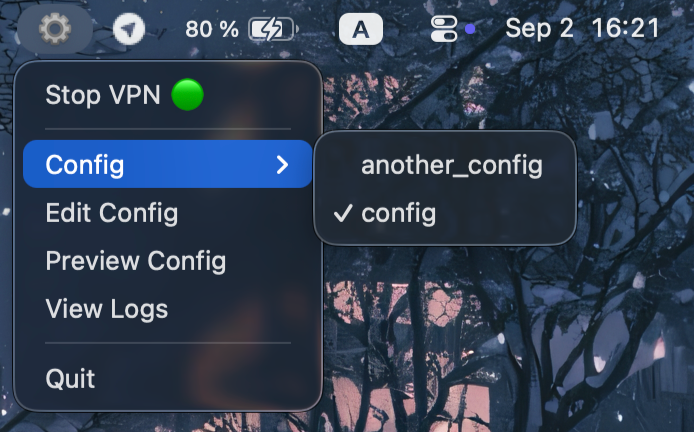
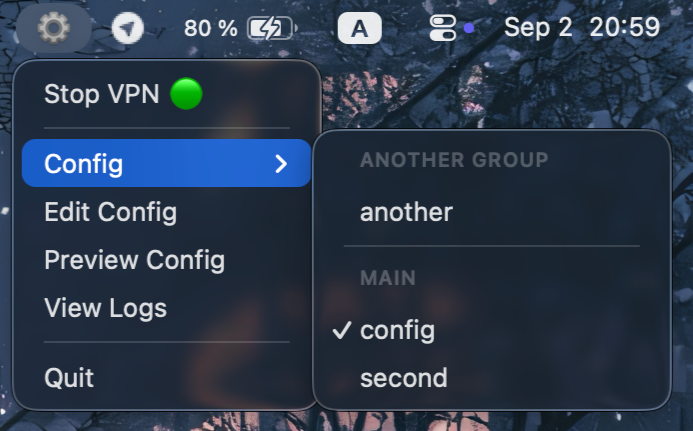
add macos config list distribution

diff --git a/macos/Sources/ConfigManager.swift b/macos/Sources/ConfigManager.swift
@@ -31,18 +31,82 @@ class ConfigManager {
         }
     }
 
-    func loadConfigs() -> [URL] {
+    struct ConfigGroup {
+        let folderName: String?
+        let displayName: String?
+        let configs: [URL]
+    }
 
-        guard let files = try? FileManager.default.contentsOfDirectory(
+    private func sortedByName(_ urls: [URL]) -> [URL] {
+        urls.sorted { $0.lastPathComponent.localizedStandardCompare($1.lastPathComponent) == .orderedAscending }
+    }
+
+    private func parseFolderName(_ name: String) -> (displayName: String, order: Int?) {
+        if let dotRange = name.range(of: ".", options: .backwards) {
+            let suffix = name[dotRange.upperBound...]
+            if !suffix.isEmpty, let number = Int(suffix) {
+                return (String(name[..<dotRange.lowerBound]), number)
+            }
+        }
+        return (name, nil)
+    }
+
+    func loadConfigGroups() -> [ConfigGroup] {
+        let fm = FileManager.default
+        guard let entries = try? fm.contentsOfDirectory(
             at: configDir,
-            includingPropertiesForKeys: nil
+            includingPropertiesForKeys: [.isDirectoryKey]
         ) else {
             return []
         }
 
-        return files
-            .filter { $0.pathExtension == "json" }
-            .sorted { $0.lastPathComponent.localizedStandardCompare($1.lastPathComponent) == .orderedAscending }
+        var rootConfigs: [URL] = []
+        var folders: [(name: String, displayName: String, order: Int?, configs: [URL])] = []
+
+        for entry in entries {
+            var isDir: ObjCBool = false
+            fm.fileExists(atPath: entry.path, isDirectory: &isDir)
+
+            if isDir.boolValue {
+                guard let subEntries = try? fm.contentsOfDirectory(at: entry, includingPropertiesForKeys: nil) else {
+                    continue
+                }
+                let jsonFiles = sortedByName(subEntries.filter { $0.pathExtension == "json" })
+                if !jsonFiles.isEmpty {
+                    let parsed = parseFolderName(entry.lastPathComponent)
+                    folders.append((name: entry.lastPathComponent, displayName: parsed.displayName, order: parsed.order, configs: jsonFiles))
+                }
+            } else if entry.pathExtension == "json" {
+                rootConfigs.append(entry)
+            }
+        }
+
+        folders.sort { a, b in
+            switch (a.order, b.order) {
+            case let (oa?, ob?):
+                if oa != ob { return oa < ob }
+                return a.displayName.localizedStandardCompare(b.displayName) == .orderedAscending
+            case (nil, nil):
+                return a.displayName.localizedStandardCompare(b.displayName) == .orderedAscending
+            case (_?, nil):
+                return true
+            case (nil, _?):
+                return false
+            }
+        }
+
+        var groups: [ConfigGroup] = []
+        if !rootConfigs.isEmpty {
+            groups.append(ConfigGroup(folderName: nil, displayName: nil, configs: sortedByName(rootConfigs)))
+        }
+        for folder in folders {
+            groups.append(ConfigGroup(folderName: folder.name, displayName: folder.displayName, configs: folder.configs))
+        }
+        return groups
+    }
+
+    func loadConfigs() -> [URL] {
+        loadConfigGroups().flatMap { $0.configs }
     }
 
     func setCurrentConfig(_ url: URL) {

diff --git a/macos/Sources/AppDelegate.swift b/macos/Sources/AppDelegate.swift
@@ -60,15 +60,37 @@ class AppDelegate: NSObject, NSApplicationDelegate {
 
         let configMenuItem = NSMenuItem(title: "Config", action: nil, keyEquivalent: "")
         let configMenu = NSMenu()
-        let configs = configManager.loadConfigs()
+        configMenu.minimumWidth = 180
+        let groups = configManager.loadConfigGroups()
+        let currentConfig = configManager.getCurrentConfig()
 
-        for config in configs {
-            let title = config.deletingPathExtension().lastPathComponent
-            let item = NSMenuItem(title: title, action: #selector(selectConfig(_:)), keyEquivalent: "")
-            item.representedObject = config
-            item.target = self
-            item.state = configManager.getCurrentConfig() == config ? .on : .off
-            configMenu.addItem(item)
+        for (index, group) in groups.enumerated() {
+            if index > 0 {
+                configMenu.addItem(NSMenuItem.separator())
+            }
+
+            if let displayName = group.displayName {
+                let headerItem = NSMenuItem(title: "", action: nil, keyEquivalent: "")
+                headerItem.attributedTitle = NSAttributedString(
+                    string: displayName.uppercased(),
+                    attributes: [
+                        .font: NSFont.systemFont(ofSize: 10, weight: .semibold),
+                        .foregroundColor: NSColor.secondaryLabelColor,
+                        .kern: 0.4
+                    ]
+                )
+                headerItem.isEnabled = false
+                configMenu.addItem(headerItem)
+            }
+
+            for config in group.configs {
+                let title = config.deletingPathExtension().lastPathComponent
+                let item = NSMenuItem(title: title, action: #selector(selectConfig(_:)), keyEquivalent: "")
+                item.representedObject = config
+                item.target = self
+                item.state = currentConfig == config ? .on : .off
+                configMenu.addItem(item)
+            }
         }
         configMenuItem.submenu = configMenu
         menu.addItem(configMenuItem)
@@ -137,7 +159,7 @@ class AppDelegate: NSObject, NSApplicationDelegate {
         guard let resolvedPath = resolvedPath(for: config) else { return }
         vpnManager.startVPN(
             configPath: resolvedPath,
-            workingDirectory: config.deletingLastPathComponent()
+            workingDirectory: configManager.configDir.deletingLastPathComponent()
         )
     }
 
@@ -145,7 +167,7 @@ class AppDelegate: NSObject, NSApplicationDelegate {
         guard let resolvedPath = resolvedPath(for: config) else { return }
         vpnManager.restartVPN(
             configPath: resolvedPath,
-            workingDirectory: config.deletingLastPathComponent()
+            workingDirectory: configManager.configDir.deletingLastPathComponent()
         )
     }
 

diff --git a/macos/README.md b/macos/README.md
@@ -10,11 +10,15 @@
 - **Просмотр собранного конфига**
 - **Выход**
 
-### Вот как это выглядит:
+## Вот как это выглядит
 
 ### Трей
 
 <img src="docs/images/tray.png" width="300"/>
+
+Разбивка конфигов по группам происходит путём создания подпапок в `~/Library/Application Support/Midnight/configs/`.
+При необходимости можно добавить индекс в название папки для сортировки их в списке. Например `another group.1`, `main.2` и т.п.
+Чем меньше индекс, тем группа оказывается выше 
 
 ### Логи
 

diff --git a/macos/README_EN.md b/macos/README_EN.md
@@ -10,11 +10,15 @@
 - **Preview built config**
 - **Quit**
 
-### Screenshots:
+## Screenshots
 
 ### Tray
 
 <img src="docs/images/tray.png" width="300"/>
+
+Config grouping is done by creating subfolders in `~/Library/Application Support/Midnight/configs/`.
+If necessary, you can add an index to the folder name to sort them in the list. For example, `another group.1`, `main.2`, etc.
+Lower indices place the group higher in the list.
 
 ### Logs
 

diff --git a/README.md b/README.md
@@ -12,6 +12,7 @@
 - **Просмотр логов в реальном времени**
 - **Редактирование конфига во внешнем редакторе**
 - **Создание конфига по шаблону _(only for macOS)_**
+- **Распределение конфигов по группам _(only for macOS)_**
 - **Выход из клиента**
 
 ## Скриншоты

diff --git a/README_EN.md b/README_EN.md
@@ -12,6 +12,7 @@
 - **View live logs**
 - **Edit config in external editor**
 - **Create config by pattern _(only for macOS)_**
+- **Distribute configs by groups _(only for macOS)_**
 - **Quit client**
 
 ## Screenshots
